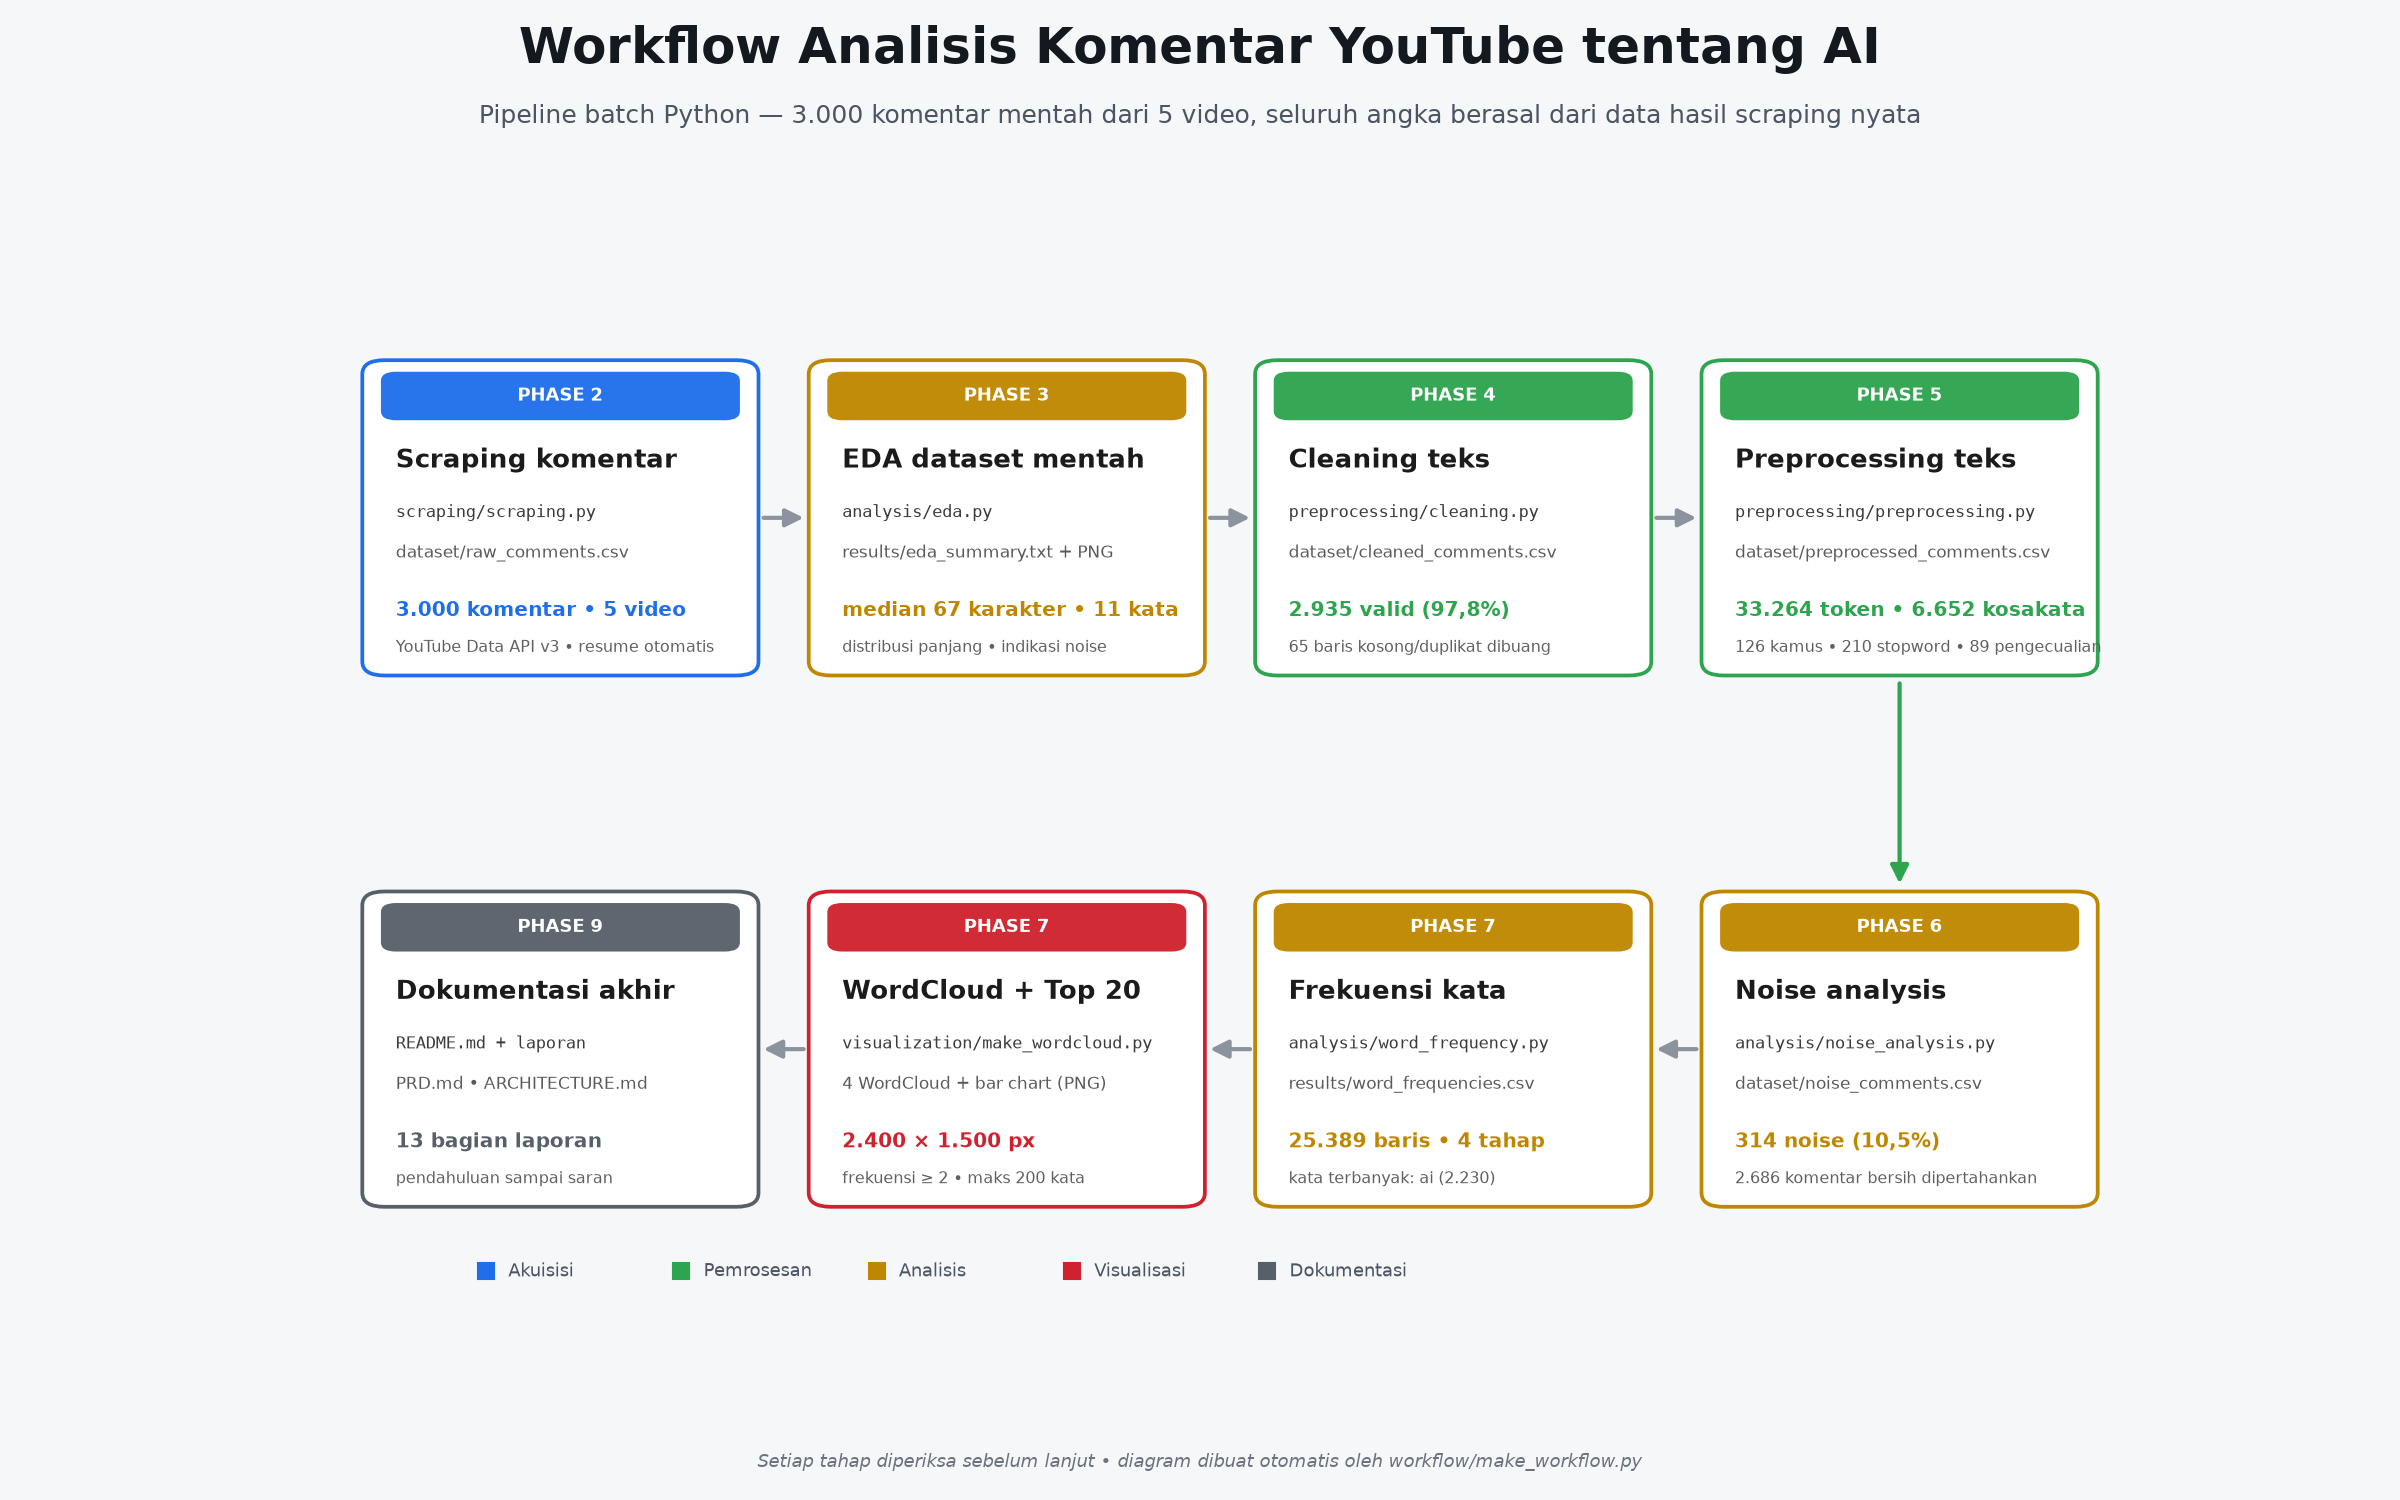
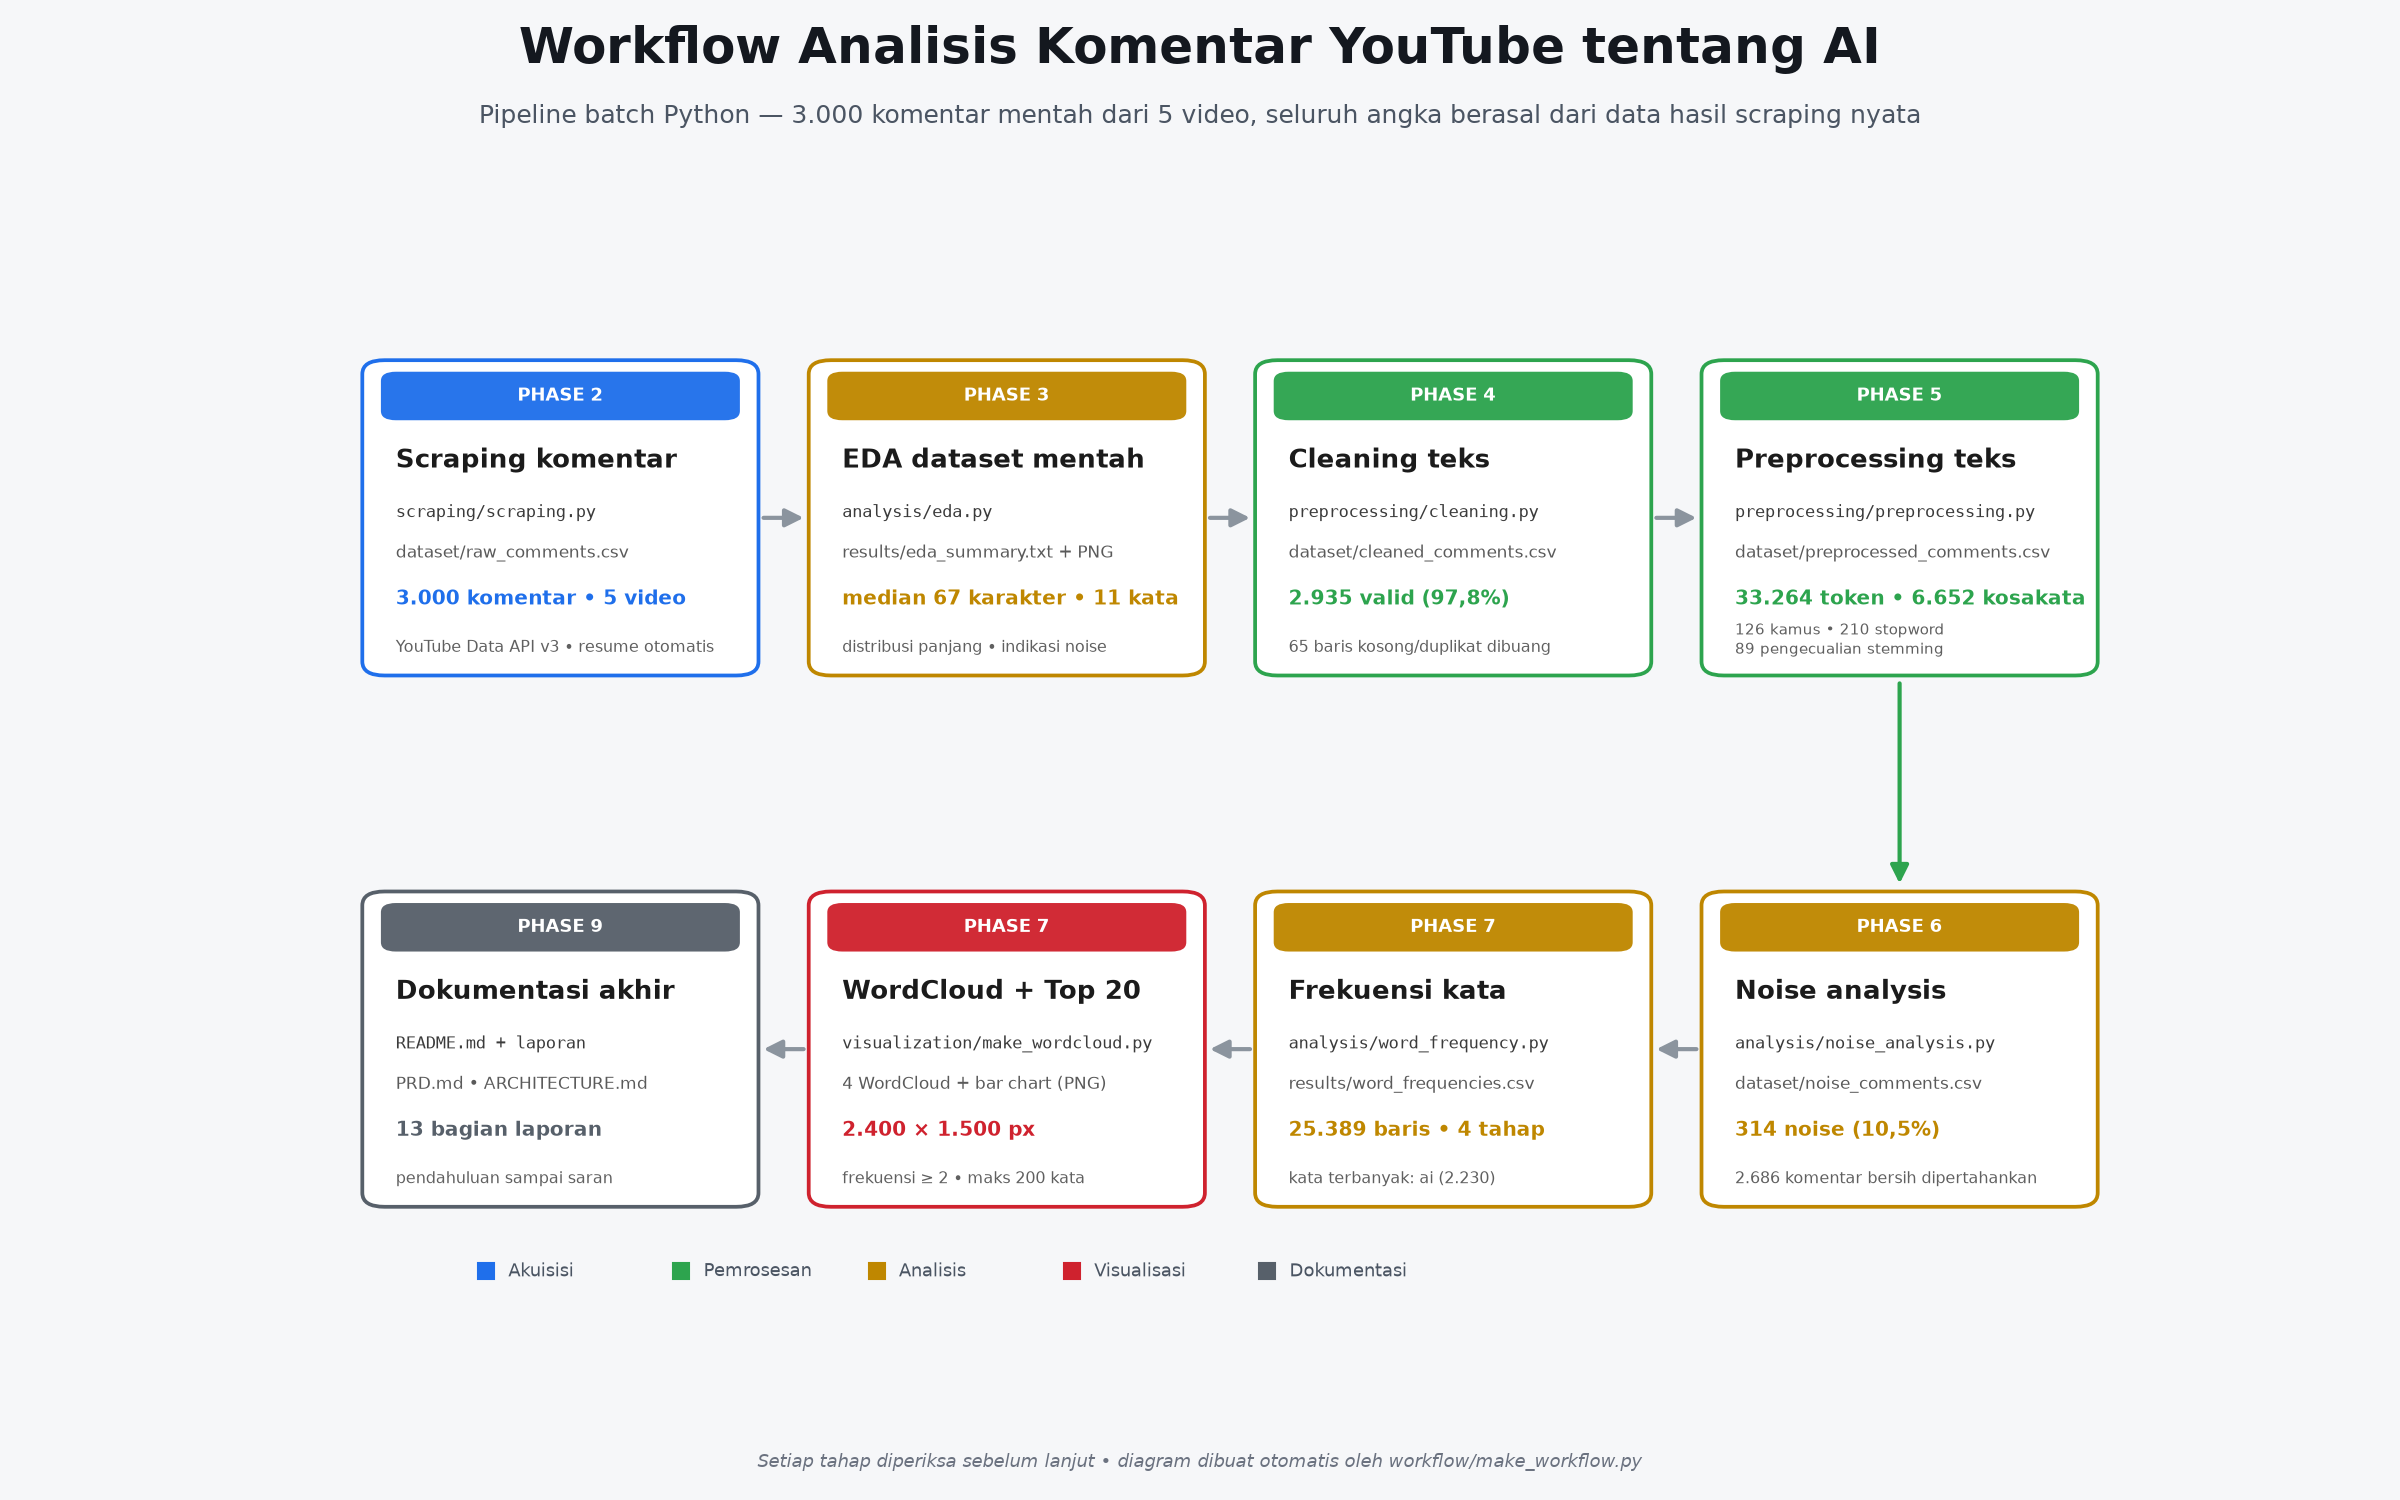
chore: rapikan tata letak kartu dan catatan pada diagram workflow

diff --git a/workflow/make_workflow.py b/workflow/make_workflow.py
@@ -180,7 +180,7 @@ def add_card(
             fontsize=8.2, family="monospace", color="#3b3b3b", zorder=5)
     ax.text(left, y + height - 0.163, output, ha="left", va="center",
             fontsize=8.2, color="#5a5a5a", zorder=5)
-    ax.text(left, y + 0.052, metric, ha="left", va="center",
+    ax.text(left, y + 0.062, metric, ha="left", va="center",
             fontsize=9.6, fontweight="bold", color=color, zorder=5)
     if "\n" in note:
         ax.text(left, y + 0.010, note, ha="left", va="bottom",
@@ -269,7 +269,7 @@ def main() -> int:
         script="preprocessing/preprocessing.py",
         output="dataset/preprocessed_comments.csv",
         metric=f"{metrics['tokens']} token • {metrics['vocab']} kosakata",
-        note=f"{metrics['dict']} kamus • {metrics['stopwords']} stopword • {metrics['exceptions']} pengecualian",
+        note=f"{metrics['dict']} kamus • {metrics['stopwords']} stopword\n{metrics['exceptions']} pengecualian stemming",
         color=COLORS["proses"],
     )
 
